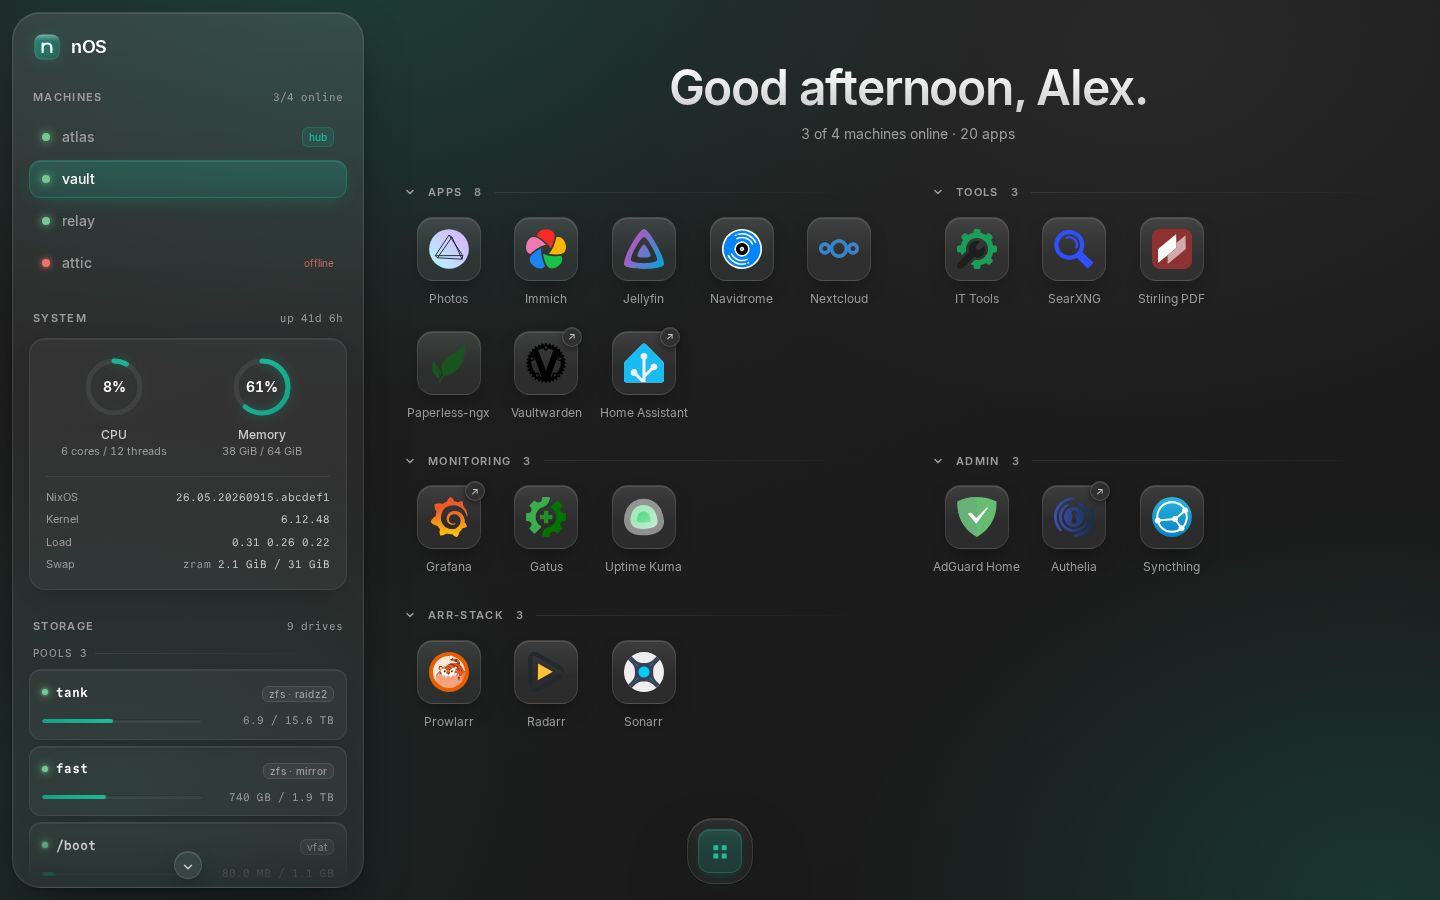
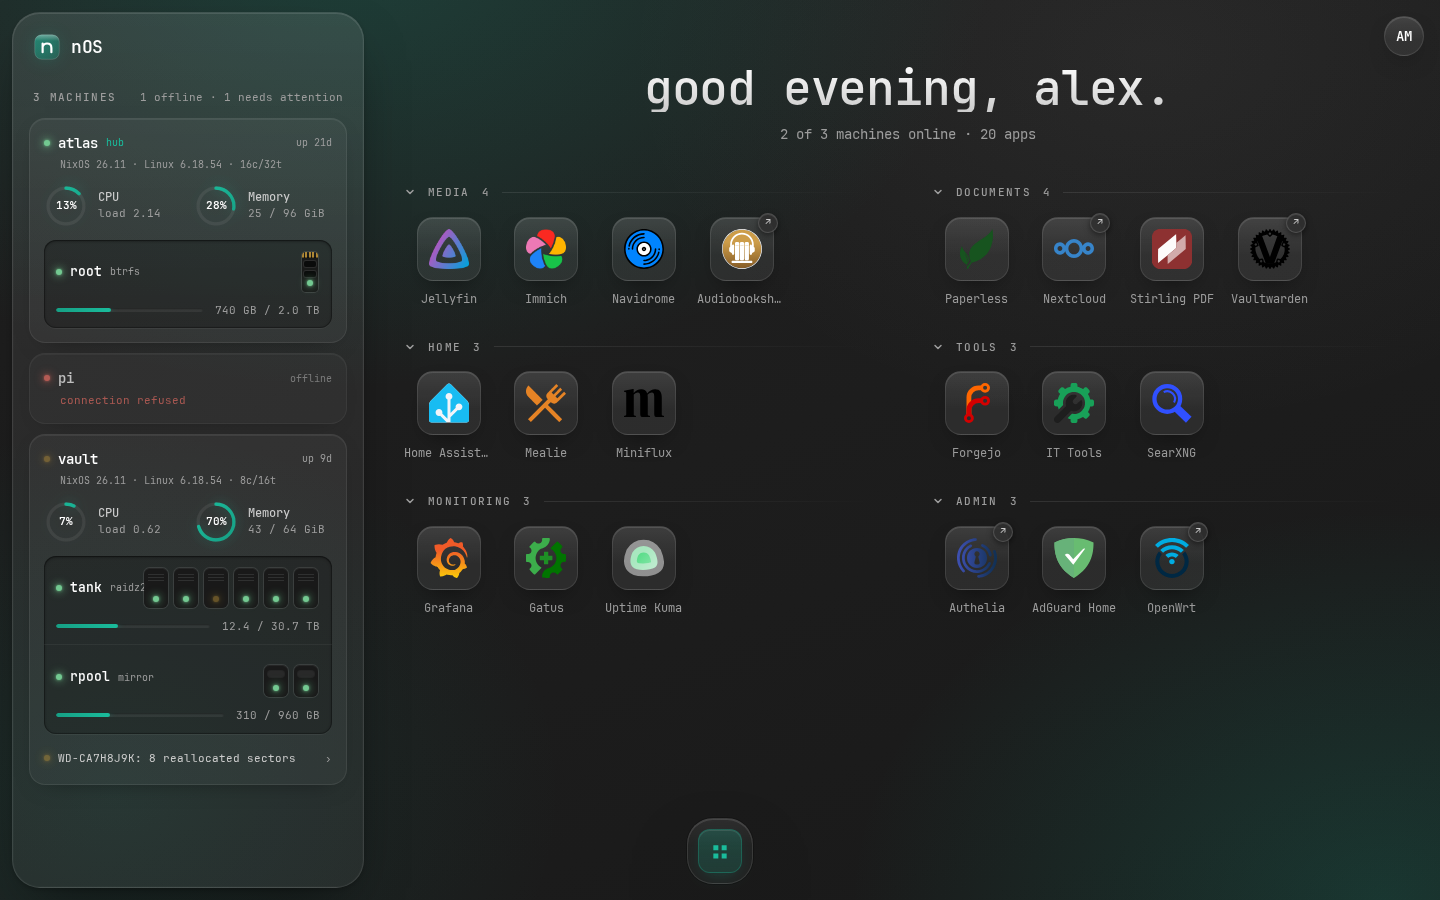
readme: describe the current ui, new screenshots
the features follow the machine cards, the one-page machine popup with
addresses, the capacity and failure tolerance drawing, the network
section and the shop link. the screenshots are taken anew from mock
data, with a machine popup in place of the old storage view, and the
agent's sources and socket families are listed.

diff --git a/README.md b/README.md
@@ -18,7 +18,7 @@ _A home screen and status overview for your NixOS machines_
 
 </div>
 
-nOS is a single place to open your self-hosted apps and see how your machines are doing _right now_: which ones are up, how busy they are, and whether every pool and drive is healthy. Think of a homepage-style launcher paired with the storage view of a NAS operating system, built for NixOS and configured entirely in Nix.
+nOS is a single place to open your self-hosted apps and see how your machines are doing _right now_: which ones are up, how busy they are, whether every pool and drive is healthy, and where each machine is reachable. Think of a homepage-style launcher paired with the storage view of a NAS operating system, built for NixOS and configured entirely in Nix.
 
 > [!NOTE]
 > nOS shows live state only. It keeps no history, draws no charts and sends no alerts. Pair it with a monitoring tool if you need those.
@@ -27,9 +27,11 @@ nOS is a single place to open your self-hosted apps and see how your machines ar
 
 - **App home screen.** Apps declared in Nix, grouped into collapsible categories, with icons from [dashboard-icons](https://github.com/homarr-labs/dashboard-icons), [selfh.st](https://selfh.st/icons/) or [Material Design Icons](https://pictogrammers.com/library/mdi/).
 - **App windows and a dock.** Apps open inside nOS and stay alive in the background, so switching is instant. Windows float or maximize above the dock. Apps that forbid framing are detected from their headers and open in a new tab instead.
-- **Machines at a glance.** CPU, installed and used memory, swap by kind, load, uptime, NixOS version and kernel for every machine.
-- **Storage that makes sense.** ZFS and md pools with their vdev layout, plain filesystems as volumes, and every physical drive drawn once. Hovering links pools and drives; popups show the vdev tree, datasets with quotas and snapshots, partition tables and SMART health.
+- **Machines at a glance.** A sidebar card per machine with CPU and memory rings, uptime, NixOS release and kernel, every pool with its drives, and anything that needs a look. Offline machines say why.
+- **Everything about a machine on one page.** System, network, every pool and every drive in one popup. A pool or drive clicked in the sidebar is scrolled to and marked. Every view has an address, so back, reload and bookmarks work, also with the back gesture of an installed app.
+- **Storage that makes sense.** ZFS and md pools, btrfs, ext4 and other file systems. Capacity is drawn over the raw space of the drives, so you see what redundancy takes, and each vdev shows how many failures it survives. Datasets with quotas and snapshots, partition tables, and a link to look up a replacement drive on geizhals.de.
 - **SMART without waking drives.** Health, temperature, wear and sector counts, collected by a separate privileged oneshot that never spins up a sleeping disk.
+- **Network.** Ethernet ports with their link and the speed they support, and every connection with its addresses: bonds, bridges, WireGuard and other tunnels. Click an address to copy it.
 - **Multi-machine.** One hub aggregates any number of agents over mutual TLS.
 - **Groups from your SSO.** Behind a forward-auth proxy, admins see machines and storage while everyone else gets the app grid.
 - **Read-only and small.** Agents never write to the system, run unprivileged under strict systemd hardening and do no work while nobody is looking.
@@ -37,11 +39,13 @@ nOS is a single place to open your self-hosted apps and see how your machines ar
 
 ## Screenshots
 
-| Pool details                                                                           | Drive details                                                                      |
-| -------------------------------------------------------------------------------------- | ---------------------------------------------------------------------------------- |
-| ![ZFS pool popup with vdev tree, properties and datasets](./docs/screenshots/pool.png) | ![Drive popup with SMART values and partition table](./docs/screenshots/drive.png) |
-| **App window**                                                                         | **View for non-admins**                                                            |
-| ![An app open in an nOS window above the dock](./docs/screenshots/app-window.png)      | ![App grid without the admin sidebar](./docs/screenshots/user-view.png)            |
+| Machine details                                                                             | Pool                                                                                       |
+| ------------------------------------------------------------------------------------------- | ------------------------------------------------------------------------------------------ |
+| ![Machine popup with system, network ports and connections](./docs/screenshots/machine.png) | ![Pool with capacity dots, vdevs and their failure tolerance](./docs/screenshots/pool.png) |
+| **Drive**                                                                                   | **App window**                                                                             |
+| ![Drive with SMART values, partitions and a shop link](./docs/screenshots/drive.png)        | ![An app open in an nOS window above the dock](./docs/screenshots/app-window.png)          |
+| **View for non-admins**                                                                     |                                                                                            |
+| ![App grid without the admin sidebar](./docs/screenshots/user-view.png)                     |                                                                                            |
 
 <details>
 <summary>On a phone</summary>
@@ -66,7 +70,7 @@ flowchart LR
 
 nOS is one Go binary built from the standard library only, with the React UI embedded:
 
-- **Agent** (every machine): answers `/api/local/*` with system, storage and app data. It reads `/proc`, `/sys`, `lsblk`, `zpool` and `zfs` on request and keeps no state.
+- **Agent** (every machine): answers `/api/local/*` with system, storage, network and app data. It reads `/proc`, `/sys`, netlink, `lsblk`, `zpool`, `zfs` and `ethtool` on request and keeps no state.
 - **Hub** (one machine): serves the UI on loopback behind your reverse proxy, fetches its peers' data server-side and decides per app whether it may be framed. It reads the user's groups from the proxy's `Remote-*` headers.
 - **SMART collector**: a separate oneshot with raw disk access writes `/run/nos-smart/smart.json`, so the agent itself never needs privileges.
 
@@ -202,7 +206,7 @@ An app's `icon` can be a dashboard-icons file or name (`jellyfin.svg`), a selfh.
 
 ## Security
 
-- **Read-only agents.** The agent runs as a `DynamicUser` with an empty capability set, a read-only file system, a system call allow-list, closed device access apart from `/dev/zfs`, and memory and task limits. `systemd-analyze security` rates it 1.5.
+- **Read-only agents.** The agent runs as a `DynamicUser` with an empty capability set, a read-only file system, a system call allow-list, closed device access apart from `/dev/zfs`, only the `AF_INET`, `AF_INET6`, `AF_NETLINK` and `AF_UNIX` socket families, and memory and task limits. `systemd-analyze security` rates it 1.5.
 - **Privileged parts are isolated.** Reading installed memory from SMBIOS runs once in a privileged `ExecStartPre`. SMART runs in `nos-smart.service` with only `CAP_SYS_RAWIO` and `CAP_SYS_ADMIN`, read-only disk access and no network.
 - **Transport.** Mutual TLS 1.3 between hub and agents, with role-bound certificates. Keys reach the services through `LoadCredential` and may not live in the Nix store.
 - **Browser.** The UI is served with a strict Content Security Policy and `frame-ancestors 'none'`.
@@ -222,7 +226,7 @@ go build -o nos . && ./nos -hub
 # frontend with hot reload, proxying /api to a hub on 127.0.0.1:7480
 cd web && npm install && npm run dev
 
-# two-node NixOS VM test: mTLS, ZFS, SMART, groups and apps
+# two-node NixOS VM test: mTLS, ZFS, SMART, network, groups and apps
 nix build .#checks.x86_64-linux.nixos-test
 ```
 
